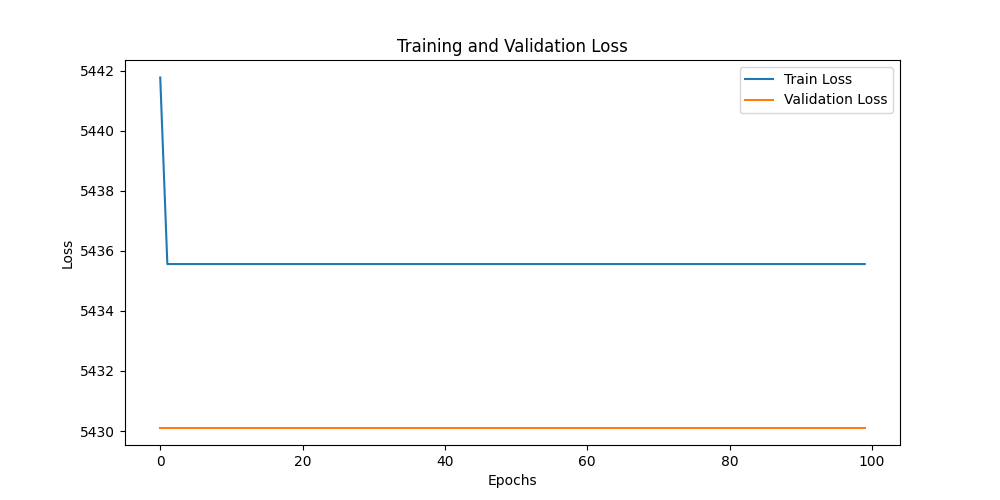
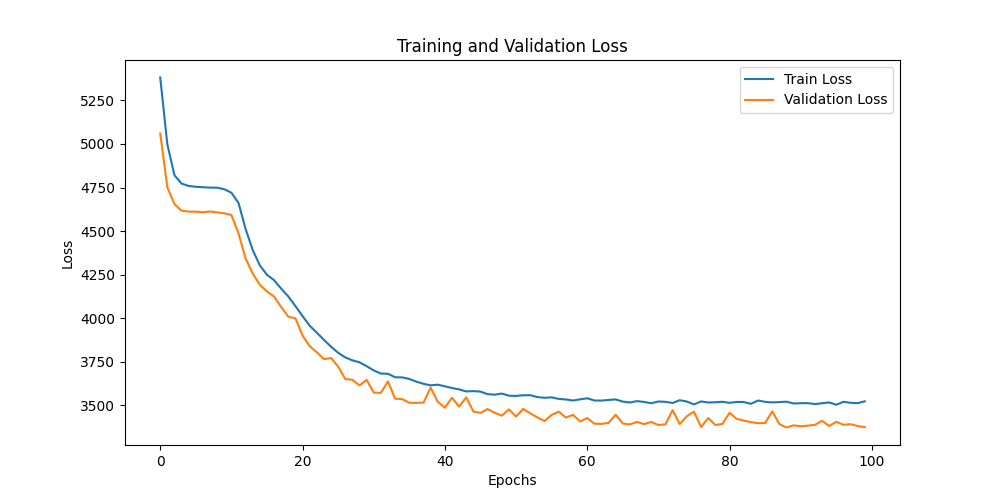
Mejorar MultiLayerPerceptron para incluir una tercera capa y actualizar el método forward

diff --git a/src/exercise_03/model.py b/src/exercise_03/model.py
@@ -22,27 +22,30 @@ class SimplePerceptron(nn.Module): # Hereda de nn.Module, es un requisito
 
 class MultiLayerPerceptron(nn.Module):  # Hereda de nn.Module, es un requisito
     """ 
-    Modelo de perceptrón multicapa: Capa oculta con ReLU y capa de salida lineal
+    Modelo de perceptrón multicapacon 2 capas ocultas:
+        input -> fc1 -> ReLU -> fc2 -> ReLU -> fc3 (salida)
+    use_activation debe ser False para que la salida dé valores positivos y negativos
     """
     def __init__(self, input_dim, output_dim, num_hidden_neurons, apodo): # Parametros de entrada y salida
         super().__init__() # es necesario
-        self.fc1 = nn.Linear(input_dim, num_hidden_neurons) # Modelo lineal , añade capa lineal del perceptron, "capa oculta"
-        self.fc2 = nn.Linear(num_hidden_neurons, output_dim) # Capa de salida
+        self.fc1 = nn.Linear(input_dim, num_hidden_neurons)
+        self.fc2 = nn.Linear(num_hidden_neurons, num_hidden_neurons)
+        self.fc3 = nn.Linear(num_hidden_neurons, output_dim)
+
         self.activation = nn.ReLU()
         self.apodo = apodo
 
-    def forward(self, x, use_activation=True):
-        x1 = self.fc1(x)  # Falta la activacion
-        x1 = self.activation(x1)  # Aplicamos la activacion con ReLU
-        x2 = self.fc2(x1) # Capa de salida
+    def forward(self, x, use_activation=False):
+        x = self.activation(self.fc1(x))
+        x = self.activation(self.fc2(x))
+        x = self.fc3(x)
 
         if use_activation:
-            x2 = self.activation(x2)
-        return x2
-
+            x = self.activation(x)
+        return x
 
 if __name__ == "__main__": # Para probar si el modelo funciona
-    model = MultiLayerPerceptron(1, 1, 64, "exercise_03")
+    model = SimplePerceptron(1, 1)
     print(model)
     x = torch.tensor([1.0])
     print(model(x))
